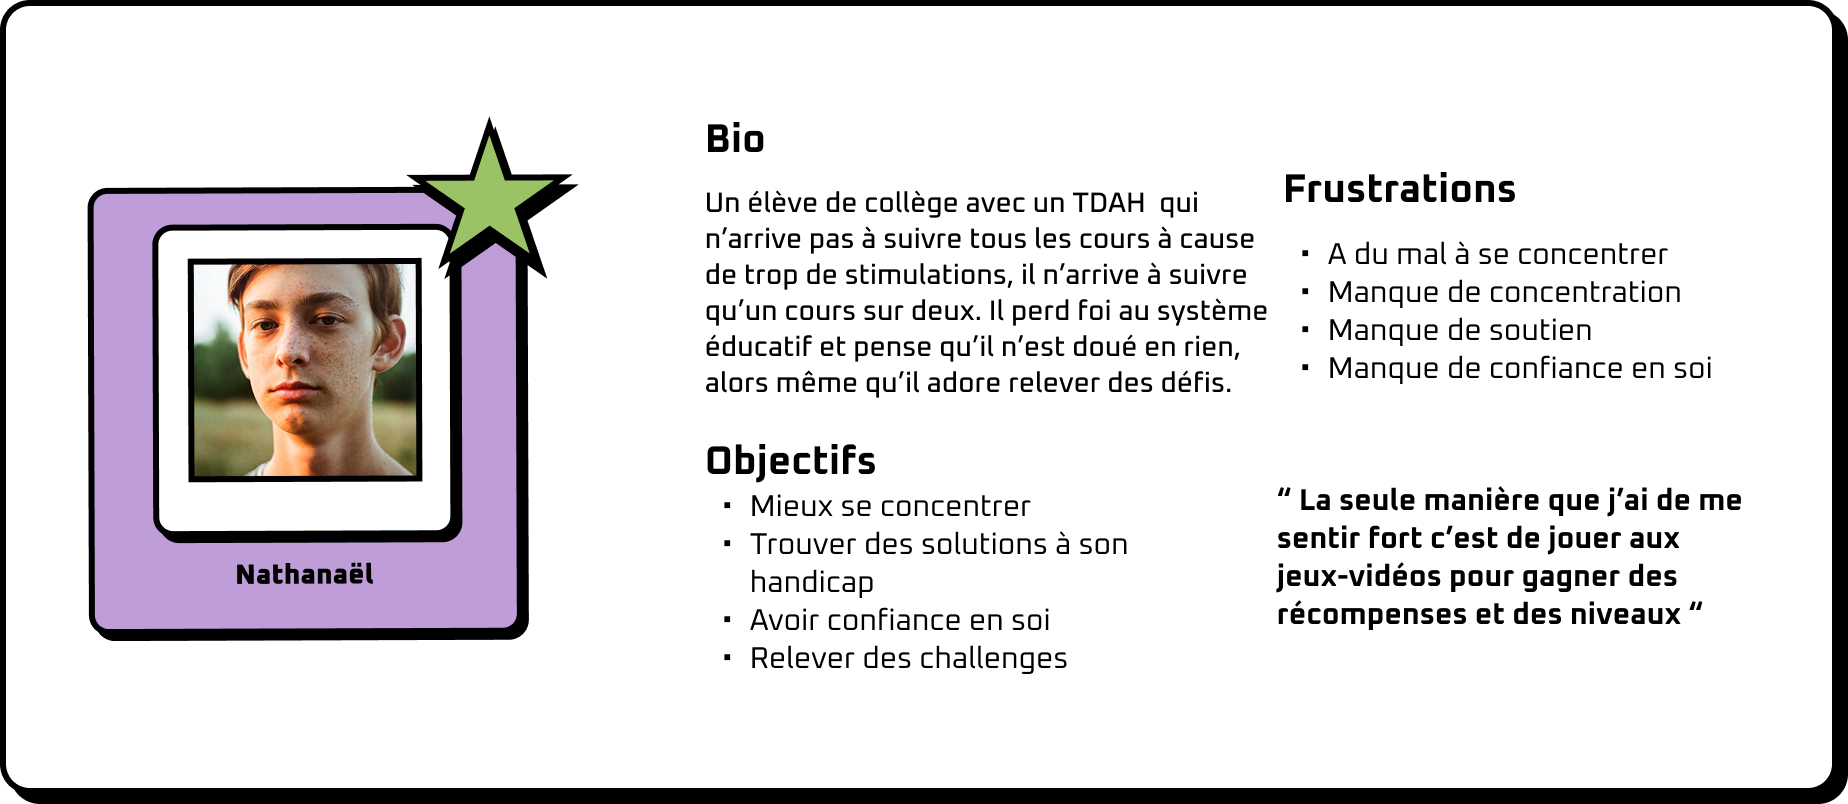
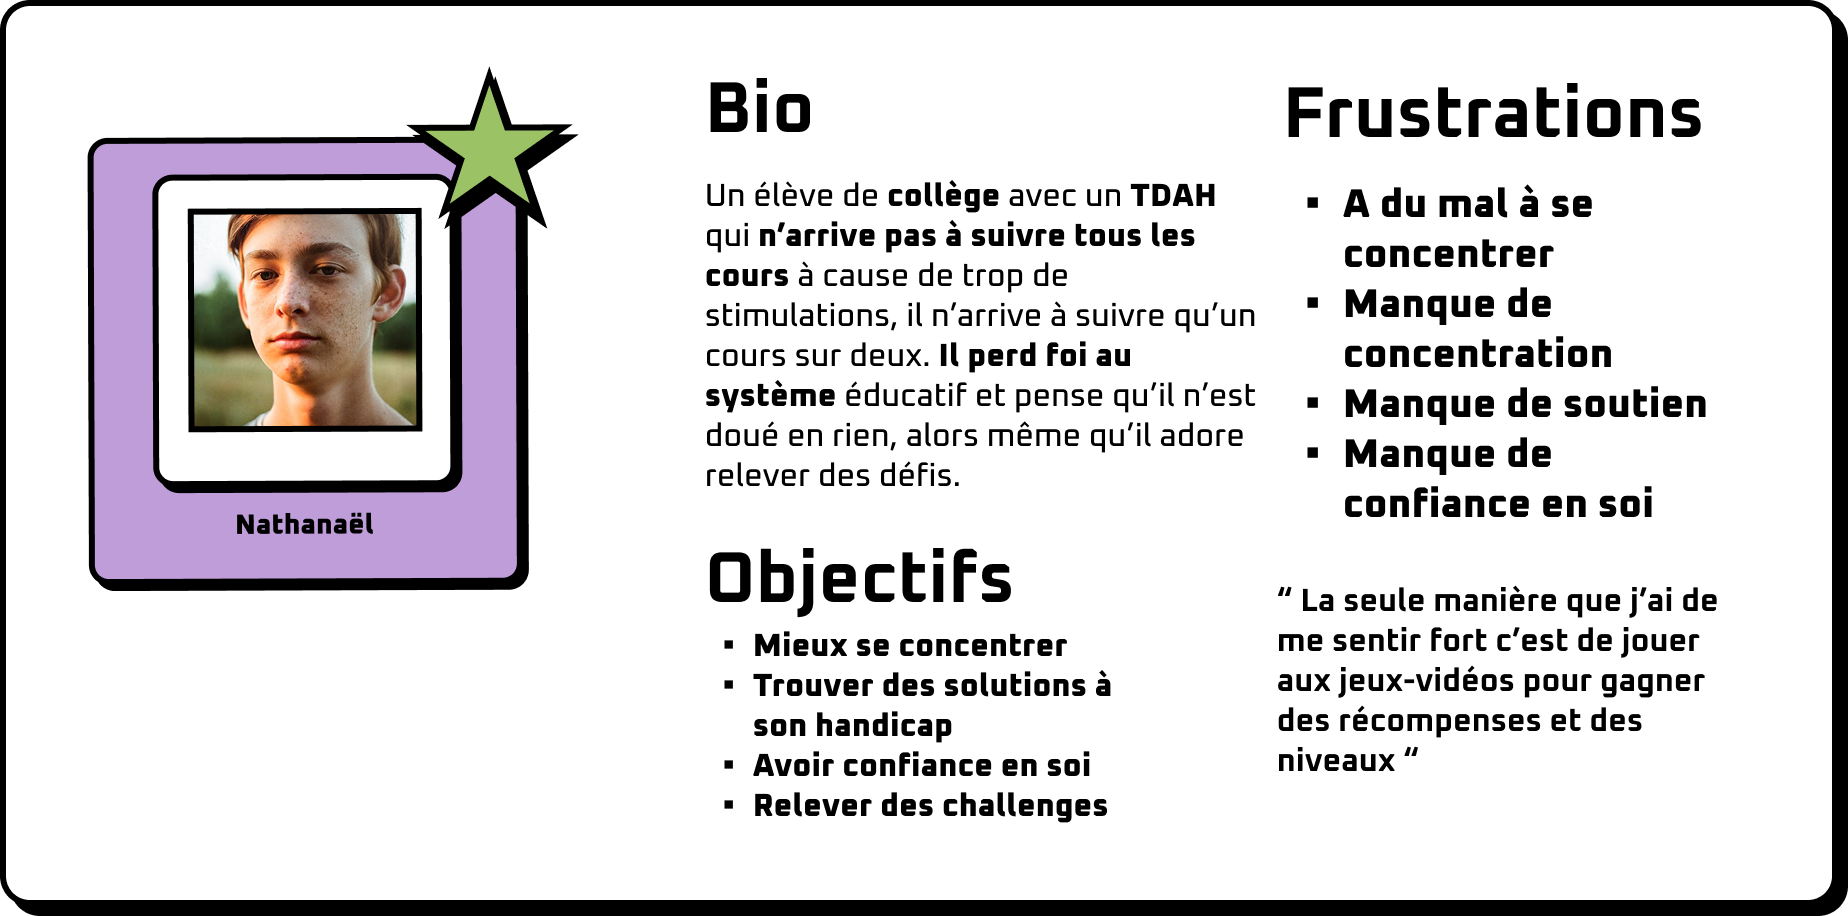
paufinage

diff --git a/documentation.html b/documentation.html
@@ -88,7 +88,8 @@
 
             <!-- SECTION CONTEXTE-->
                     <section class="container-doc section-sans-pt">
-                        <div id="contexte" class="box-border-black">
+                        <div id="contexte" class="box-border-black" data-aos="fade-up"
+     data-aos-duration="2000">
                             <div class="flex">
                                 <i class="ph-fill ph-books icone-title"></i>
                                 <h2>Contexte</h2>
@@ -135,7 +136,7 @@
                             </div>
                         </div>  -->
                                     <div id="problematique" class="problematique-box" data-aos="zoom-in">
-                                        <h2>Comment redonner confiance à Nathanaël envers lui-même malgré son handicap
+                                        <h2>Comment redonner confiance à Nathanaël malgré son handicap
                                             invisible ?</h2>
                                     </div>
                                     <div class="margin-top50 box-border-black " data-aos="zoom-in">
@@ -143,10 +144,10 @@
                                             <i class="ph-fill ph-books icone-title"></i>
                                             <h2>Le concept</h2>
                                         </div>
-                                        <p>Un service numérique type application qui redonne confiance aux éléves souffrant
+                                        <p>Un service numérique type application qui <span class="gras">redonne confiance </span>aux éléves souffrant
                                             de TDAH en
                                             donnant
-                                            des défis à faire et des tips pour les réussir mais aussi grâce aux commentaires
+                                            des  <span class="gras">défis à faire et des tips</span> pour les réussir mais aussi grâce aux commentaires
                                             des
                                             utilisateurs
                                         </p>
@@ -279,11 +280,11 @@
                                         <img src="asset/avant-apres/tu_apres_filtres.png" alt="" srcset=""
                                             class="w125 align-center margin-right18">
                                     </div>
-                                    <p>Il y avait à la fois la barre de recherche et les filtres qui compliquait la
+                                    <p>Il y avait à la fois <span class="gras">la barre de recherche </span>  et <span class="gras">les filtres </span>qui compliquait la
                                         recherche de
                                         défi,
                                         donc
-                                        nous avons uniquement ajouté que des boutons filtres</p>
+                                        nous avons uniquement ajouté que des <span class="gras">boutons filtres</span> </p>
                                 </div>
                             </div>
                             <div class="box-violet flex space-between margin-bottom20 box-border-black" data-aos="zoom-in" data-aos-duration="1000">
@@ -297,11 +298,11 @@
                                     <img src="asset/avant-apres/tu_accueil_apres.png" alt="" srcset=""
                                         class="image-test-utilisateur2">
                                 </div>
-                                <p class="w100">La page d’accueil était flou car il y avait trop de boutons (1 par
+                                <p class="w100">La page d’accueil était flou car il y avait <span class="gras">trop de boutons</span> (1 par
                                     fonctionnalités
                                     de l’app) .On
                                     a
-                                    choisit de valoriser seulement les deux fonctionnalités principales en faisant des gros boutons
+                                    choisit de<span class="gras"> valoriser seulement les deux fonctionnalités principales</span> en faisant des gros boutons.
                                 </p>
                             </div>
                             <div class="box-violet flex space-between margin-bottom20 box-border-black" data-aos="zoom-in" data-aos-duration="1000">
@@ -313,16 +314,14 @@
                                     <p class="txtcenter titre">Après</p>
                                     <img src="asset/avant-apres/tu_defi_apres.png" alt="" srcset="" class="image-test-utilisateur">
                                 </div>
-                                <p class="w100">Dans le menu d’accueil , associer les couleurs au logo pour plus de cohérences, le
-                                    nom des défis.
-                                    pour renforcer l’identité visuel de l’app</p>
+                                <p class="w100">Remplacer certains <span class="gras">titres qui ressemblaient à des boutons</span>  par une pop-up ou un <span class="gras">design plus clair et intuitif</span>.</p>
                             </div>
                             <div class="box-violet box-border-black" data-aos="zoom-in" data-aos-duration="1000">
                                 <img src="asset/avant-apres/tu_succes.png" alt="" class="image-test-utilisateur3">
                                 <p>Afficher en grisé les succès qui ne sont pas encore déverrouillés permettrait de
-                                    mieux visualiser
+                                   <span class="gras">mieux visualiser
                                     les
-                                    objectifs à venir et de stimuler la motivation.</p>
+                                    objectifs à venir</span>  et de <span class="gras">stimuler la motivation</span> .</p>
                             </div>
                     
                     </section>
@@ -336,16 +335,16 @@
 
                             <ul class="margin-left25  margin-bottom20">
                                 <li>
-                                    <p>Rendre toutes les fonctionnalités des paramètres pleinement fonctionnelles </p>
+                                    <p>Rendre toutes les fonctionnalités des paramètres <span class="gras">pleinement fonctionnelles</span> </p>
                                 </li>
                                 <li>
-                                    <p> Mettre en place des récompenses basées sur le niveau et le temps de jeu</p>
+                                    <p> Mettre en place des récompenses basées sur <span class="gras">le niveau et le temps de jeu</span>.</p>
                                 </li>
                                 <li>
-                                    <p> Ajouter un système de progression visible et motivant</p>
+                                    <p> Ajouter un système de <span class="gras">progression visible et motivant</span> </p>
                                 </li>
                                 <li>
-                                    <p> Envisager l’intégration d’un réseau social interne pour favoriser l’échange et la motivation
+                                    <p> Envisager l’intégration d’un <span class="gras">réseau social interne</span> pour favoriser <span class="gras">l’échange et la motivation</span>
                                         entre utilisateurs</p>
                                 </li>
                             </ul>
@@ -421,7 +420,7 @@
   
             <div class="box-border-black flex align-center">
                 <div class="w50 divmoove">
-                    <h2 class="flex titre"><i class="ph ph-hand-peace"></i> Rejoignez T’Défis !</h2>
+                    <h2 class="flex titre"><i class="ph ph-hand-peace taille-icone"></i> Rejoignez T’Défis !</h2>
                     <p class="flex margin-top20 w70">Parce que vous êtes unique et capable,
                         T’Défis vous accompagne dans votre particularité!</p>
                 </div>

diff --git a/index.html b/index.html
@@ -371,7 +371,7 @@
   
             <div class="box-border-black flex align-center margin-top100">
                 <div class="w50 divmoove">
-                    <h2 class="flex titre"><i class="ph ph-hand-peace"></i> Rejoignez T’Défis !</h2>
+                    <h2 class="flex titre"><i class="ph ph-hand-peace taille-icone"></i> Rejoignez T’Défis !</h2>
                     <p class="flex margin-top20 w70">Parce que vous êtes unique et capable,
                         T’Défis vous accompagne dans votre particularité!</p>
                 </div>

diff --git a/style.css b/style.css
@@ -818,6 +818,9 @@ h5 {
     justify-content: center;
 }
 
+.taille-icone{
+    font-size:40px
+}
 .ombre{
     box-shadow: 0px 0px 5px gray;
 }
